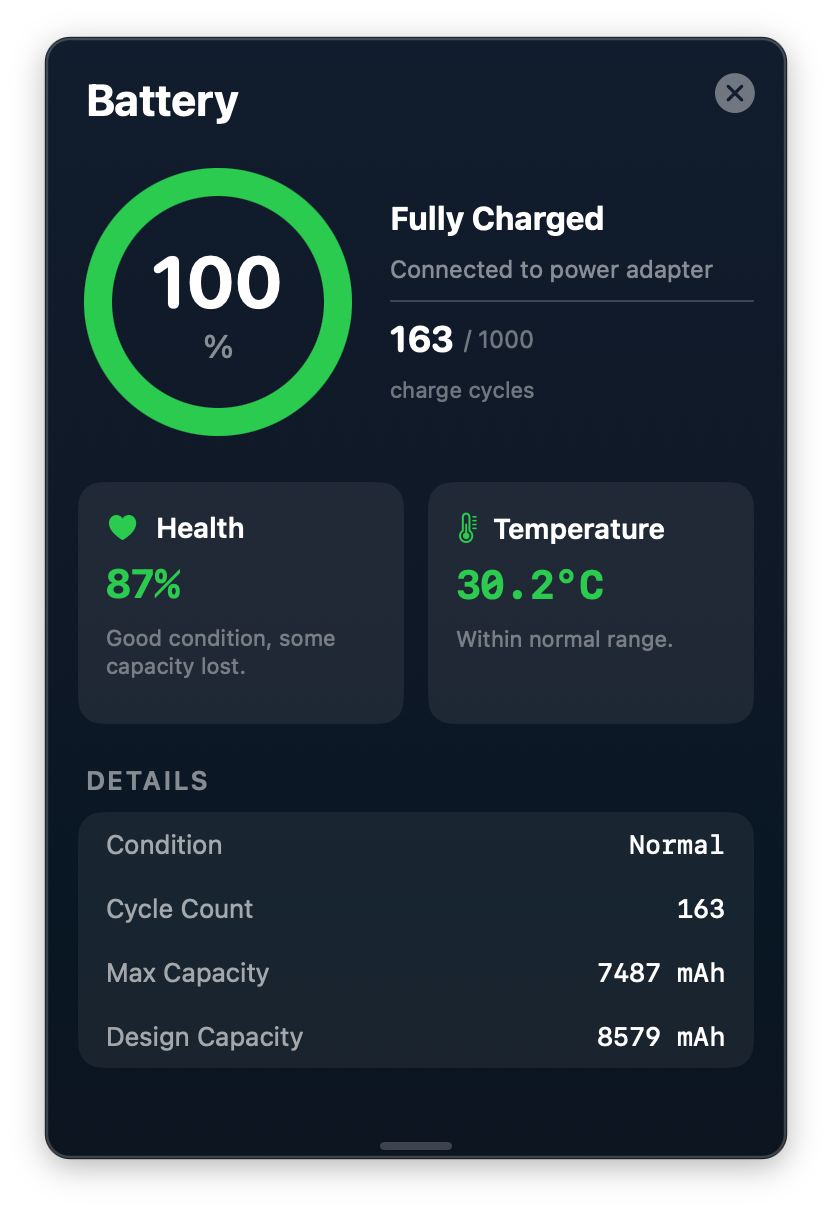
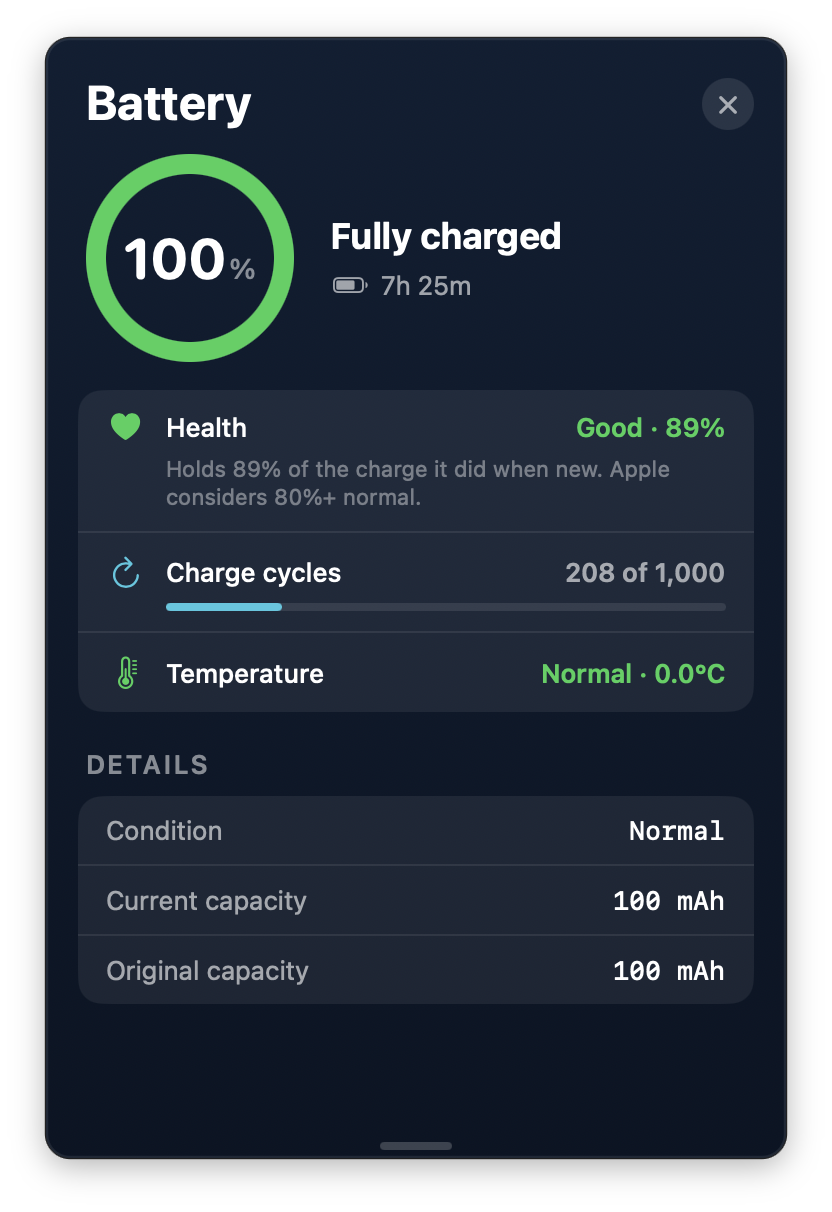
feat: Update README and hero.svg with improved descriptions and visuals for fan control features

diff --git a/README.md b/README.md
@@ -12,13 +12,13 @@ A free, open-source macOS menu bar app that tells you how your Mac is doing at a
 
 <p align="center">
   <img src="assets/screenshots/popover-main.png" alt="ChillMac menu bar popover with system temperature, hardware stats, performance mode, and per-fan RPM controls" width="420">
-  <img src="assets/screenshots/popover-settings.png" alt="ChillMac settings view with preferences and configuration options" width="420">
+  <img src="assets/screenshots/popover-settings.png" alt="ChillMac Settings with fan control status, appearance, menu bar temperature, and cooling behavior options" width="420">
 </p>
 
 <p align="center">
-  <img src="assets/screenshots/panel-memory.png" alt="ChillMac memory detail panel showing usage breakdown, pressure, swap, and top consumers" width="370">
-  <img src="assets/screenshots/panel-battery.png" alt="ChillMac battery detail panel showing charge, health, cycles, and temperature" width="370">
-  <img src="assets/screenshots/panel-temperatures.png" alt="ChillMac temperature sensors panel showing CPU, GPU, memory, and SSD readings" width="370">
+  <img src="assets/screenshots/panel-memory.png" alt="ChillMac Memory panel showing free memory, a usage breakdown bar, pressure, swap, and the apps using the most" width="370">
+  <img src="assets/screenshots/panel-battery.png" alt="ChillMac Battery panel showing charge, health, charge cycles, temperature, and capacity details" width="370">
+  <img src="assets/screenshots/panel-temperatures.png" alt="ChillMac Temperatures panel showing the coolest, average, and hottest readings and sensors grouped by CPU, GPU, Memory, and Storage" width="370">
 </p>
 
 ## Features
